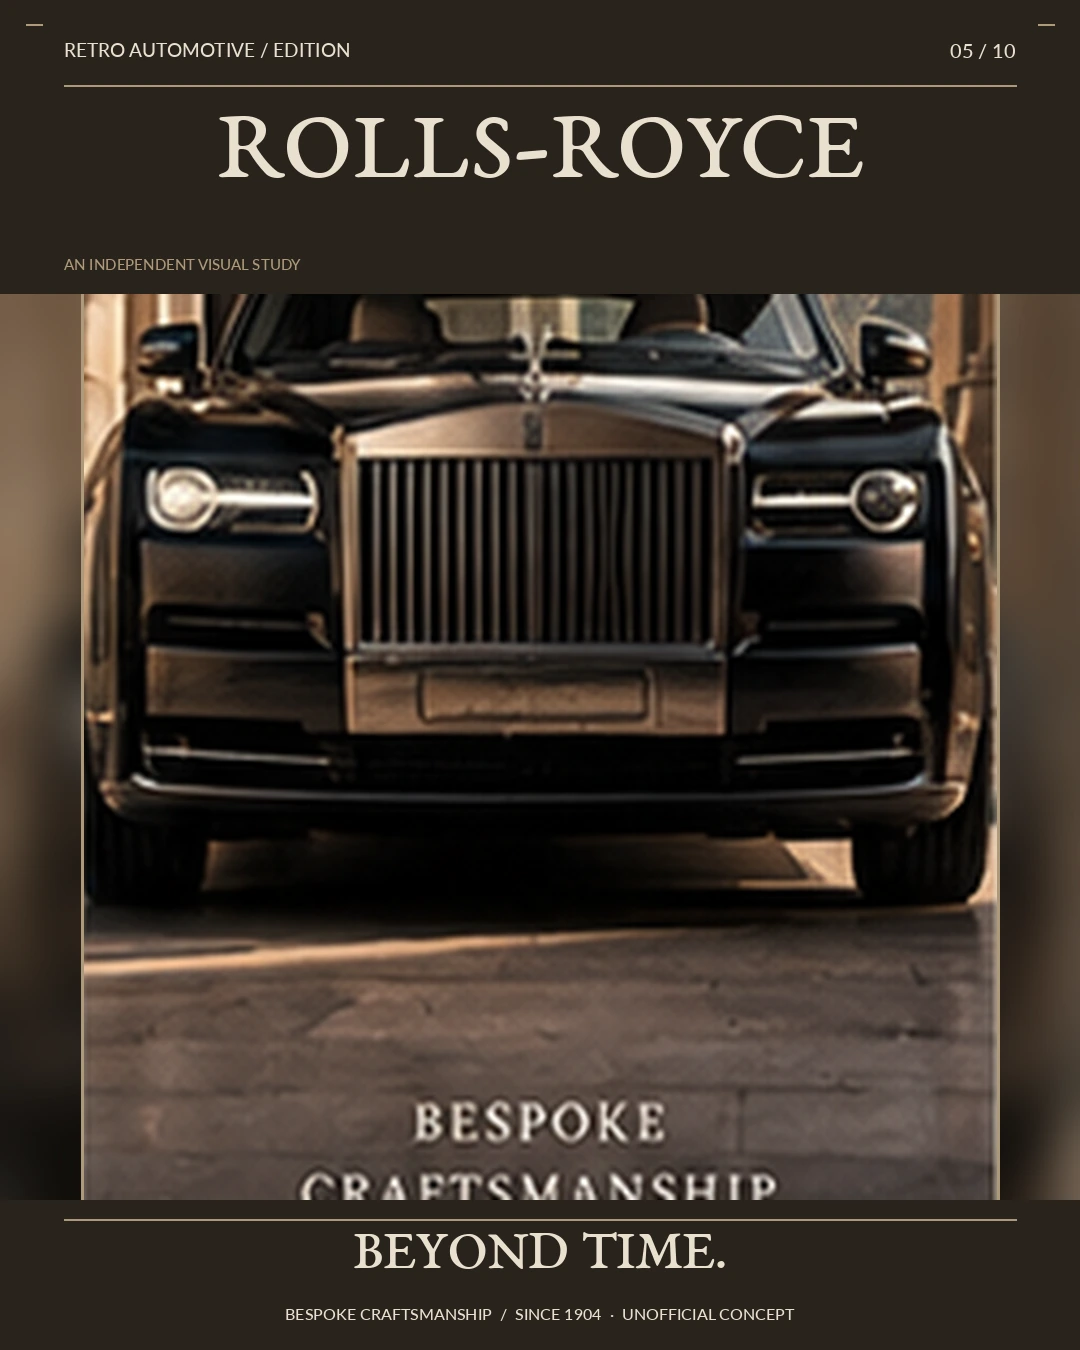
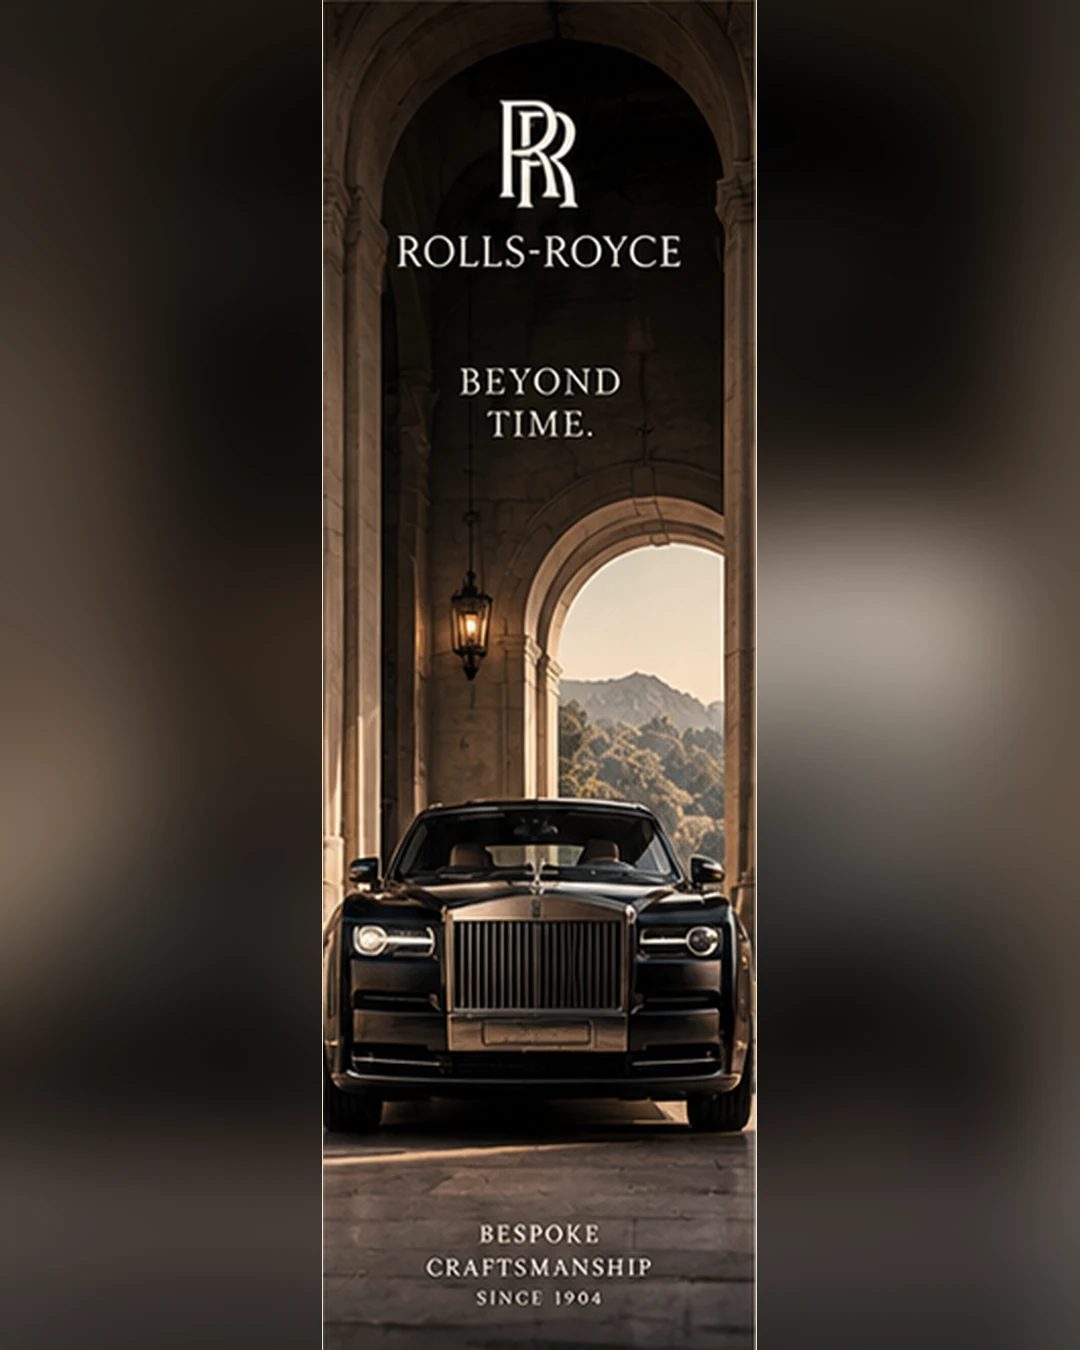
Restore exact original automotive poster artwork in 1080x1350 social frames

diff --git a/jewellery-social-gallery/index.html b/jewellery-social-gallery/index.html
@@ -282,7 +282,7 @@ a.work-tile:focus-visible{outline:3px solid #ac885c;outline-offset:3px}
   <div>
    <div class="eyebrow"><i></i>Automotive / Heritage Campaign Studies / 2026</div>
    <h1 class="collection-title">Ten icons.<br><em>Five directions.</em></h1>
-   <p class="collection-lead">10 poster retro/vintage được dựng lại từ chính ảnh tổng hợp bạn cung cấp, giữ các mẫu xe và bố cục lấy từ hình gốc. Từng poster được tái dàn trang theo khung Facebook/Instagram 1080 × 1350 px (4:5), không tạo lại xe bằng AI.</p>
+   <p class="collection-lead">10 poster retro/vintage được dựng lại từ chính ảnh tổng hợp bạn cung cấp, giữ các mẫu xe và bố cục lấy từ hình gốc. Từng poster giữ nguyên toàn bộ thiết kế gốc ở chính giữa; hai bên được mở rộng bằng nền mờ lấy từ ảnh đó để vừa khung Facebook/Instagram 1080 × 1350 px (4:5), không kéo giãn hình xe hoặc vẽ lại bằng AI.</p>
   </div>
   <aside class="collection-aside"><strong>Classics, reimagined.</strong>Minimalism · Art Deco · Editorial · Art Nouveau · 3D / CGI.<br><br>10 standalone posters / 1080 × 1350 px.</aside>
  </div>
@@ -299,7 +299,7 @@ a.work-tile:focus-visible{outline:3px solid #ac885c;outline-offset:3px}
   <button class="auto-filter-btn" type="button" data-auto-filter="3D / CGI" aria-pressed="false">3D / CGI <span>02</span></button>
  </div>
  <section id="auto-grid" class="grid auto-poster-grid" aria-label="10 retro and vintage automotive posters" aria-live="polite"></section>
- <div class="auto-gallery-note"><span>✳ &nbsp; INDEPENDENT VISUAL STUDIES</span><p>Bộ ảnh này được cắt và tái bố cục trực tiếp từ collage do người dùng cung cấp, không sinh lại hình xe bằng AI. Vì ảnh đầu vào chỉ có độ rộng khoảng 200 px mỗi mẫu nên hình xe có thể mềm khi phóng to. Các thiết kế không phải quảng cáo chính thức của thương hiệu.</p></div>
+ <div class="auto-gallery-note"><span>✳ &nbsp; INDEPENDENT VISUAL STUDIES</span><p>10 poster giữ nguyên thiết kế trong collage bạn cung cấp. Toàn bộ chữ, logo và ảnh xe nằm nguyên trong cột poster ở giữa; hai bên mở rộng bằng nền mờ, không cắt mất nội dung, không tạo lại xe bằng AI. Vì ảnh đầu vào chỉ có độ rộng khoảng 200 px mỗi mẫu nên hình xe có thể mềm khi phóng to. Các thiết kế không phải quảng cáo chính thức của thương hiệu.</p></div>
 </section>
 <section id="panel-other-designs" class="collection-panel" role="tabpanel" aria-labelledby="tab-other-designs" tabindex="0" hidden>
 <div class="collection-intro">
@@ -552,16 +552,16 @@ var svg=design(b),blob=new Blob([svg],{type:'image/svg+xml;charset=utf-8'}),u=UR
 (function(){
   'use strict';
   var posters=[
-    {id:'ford',brand:'Ford Mustang',model:'Fastback / 1967',style:'Editorial',title:'Born to Roam',image:'assets/automotive/01-ford-retro-poster.webp',description:'American muscle meets fashion-editorial photography. Low-angle hero car, dark slate, warm highway atmosphere and oversized serif typography.'},
-    {id:'peugeot',brand:'Peugeot',model:'French vintage sedan',style:'Art Nouveau',title:'The Beauty of Slow Days',image:'assets/automotive/02-peugeot-retro-poster.webp',description:'French motoring heritage interpreted with botanical line work, organic arches, warm ivory and a graceful serif typographic system.'},
-    {id:'volkswagen',brand:'Volkswagen',model:'Type 2 Samba Bus',style:'3D / CGI',title:'More Life. More Miles.',image:'assets/automotive/03-volkswagen-retro-poster.webp',description:'Playful retro-futurist 3D visual study with pastel mint, apricot, concentric forms and a vintage microbus as the hero.'},
-    {id:'jaguar',brand:'Jaguar',model:'E-Type / 1961',style:'Minimalism',title:'Grace in Motion',image:'assets/automotive/04-jaguar-retro-poster.webp',description:'British grand touring with minimalist negative space, ivory paper-like treatment, sophisticated tracking and the sculptural E-Type as centerpiece.'},
-    {id:'rolls-royce',brand:'Rolls-Royce',model:'Silver Cloud-era study',style:'Minimalism',title:'An Ageless Arrival',image:'assets/automotive/05-rolls-royce-retro-poster.webp',description:'Understated British formal luxury in stone, cream and charcoal, with expansive breathing space and an elegant hero silhouette.'},
-    {id:'harley-davidson',brand:'Harley-Davidson',model:'Classic cruiser heritage',style:'Editorial',title:'Freedom Has a Sound',image:'assets/automotive/06-harley-davidson-retro-poster.webp',description:'Cinematic sunset highway photography, warm copper tones, close-up mechanical detail and rebellious motorcycle culture.'},
-    {id:'porsche',brand:'Porsche',model:'Classic 911',style:'3D / CGI',title:'Timeless Velocity',image:'assets/automotive/07-porsche-retro-poster.webp',description:'Classic precision meets sculptural metallic rings, blue-gray CGI-informed staging and powerful automotive editorial geometry.'},
-    {id:'mercedes-benz',brand:'Mercedes-Benz',model:'300 SL Gullwing-era study',style:'Art Deco',title:'Sculpted in Silver',image:'assets/automotive/08-mercedes-benz-retro-poster.webp',description:'An Art Deco homage to a legendary classic coupe: geometric gold architecture, silver bodywork and a deep charcoal palette.'},
-    {id:'land-rover',brand:'Land Rover',model:'Classic Defender / Series',style:'Art Nouveau',title:'Beyond the Horizon',image:'assets/automotive/09-land-rover-retro-poster.webp',description:'Organic topographic curves and forest-inspired lettering frame a vintage off-road hero in a poetic olive-green exploration study.'},
-    {id:'ferrari',brand:'Ferrari',model:'Vintage race coupe',style:'Art Deco',title:'Passion Drives Us',image:'assets/automotive/10-ferrari-retro-poster.webp',description:'A vintage red racing coupe from the supplied automotive poster collage, re-composed as a 1080 × 1350 social design while preserving the original vehicle photo as the artwork source.'}
+    {id:'ford',brand:'Ford Mustang',model:'Fastback / 1967',style:'Editorial',title:'A Legend Never Ages',image:'assets/automotive/01-ford-retro-poster.webp?v=exact-4x5',description:'Original Ford Mustang poster: coastal sunset, blue sky, pony motif, classic car and caption remain unchanged.'},
+    {id:'peugeot',brand:'Peugeot',model:'French vintage sedan',style:'Art Nouveau',title:'L’esprit toujours plus loin',image:'assets/automotive/02-peugeot-retro-poster.webp?v=exact-4x5',description:'Original Peugeot vintage-sedan poster with European stone architecture, gold type and dark atmosphere preserved.'},
+    {id:'volkswagen',brand:'Volkswagen',model:'Type 2 Samba Bus',style:'3D / CGI',title:'Good People. Better Journeys.',image:'assets/automotive/03-volkswagen-retro-poster.webp?v=exact-4x5',description:'Original Volkswagen camper on sunlit sand beneath palms; all poster text and graphics preserved.'},
+    {id:'jaguar',brand:'Jaguar',model:'E-Type / 1961',style:'Minimalism',title:'Grace in Motion.',image:'assets/automotive/04-jaguar-retro-poster.webp?v=exact-4x5',description:'Original Jaguar sports coupe by a light stone arch, including its original headline and visual treatment.'},
+    {id:'rolls-royce',brand:'Rolls-Royce',model:'Silver Cloud-era study',style:'Minimalism',title:'Beyond Time.',image:'assets/automotive/05-rolls-royce-retro-poster.webp?v=exact-4x5',description:'Original Rolls-Royce vehicle beneath a grand stone arch, with its original brand styling and slogan.'},
+    {id:'harley-davidson',brand:'Harley-Davidson',model:'Classic cruiser heritage',style:'Editorial',title:'Freedom Lives Here.',image:'assets/automotive/06-harley-davidson-retro-poster.webp?v=exact-4x5',description:'Original Harley-Davidson cruiser amid orange sunset mountains, featuring its original crest and headline.'},
+    {id:'porsche',brand:'Porsche',model:'Classic 911',style:'3D / CGI',title:'Precision Creates Emotion.',image:'assets/automotive/07-porsche-retro-poster.webp?v=exact-4x5',description:'Original Porsche sports car by geometric architecture and red-and-white racing stripes.'},
+    {id:'mercedes-benz',brand:'Mercedes-Benz',model:'300 SL Gullwing-era study',style:'Art Deco',title:'Engineered for a Brighter Tomorrow.',image:'assets/automotive/08-mercedes-benz-retro-poster.webp?v=exact-4x5',description:'Original classic Mercedes-Benz gullwing coupe, architectural setting and typographic hierarchy.'},
+    {id:'land-rover',brand:'Land Rover',model:'Classic Defender / Series',style:'Art Nouveau',title:'Adventure Without Limits.',image:'assets/automotive/09-land-rover-retro-poster.webp?v=exact-4x5',description:'Original green classic Land Rover against an alpine landscape, preserving source typography.'},
+    {id:'ferrari',brand:'Ferrari',model:'Vintage race coupe',style:'Art Deco',title:'Passion Drives Us.',image:'assets/automotive/10-ferrari-retro-poster.webp?v=exact-4x5',description:'Original red Ferrari racing coupe in a graphic red architectural environment, with full artwork intact.'}
   ];
   var currentFilter='All',selected=null,lastOpener=null,available=posters.map(function(_,i){return i});
   var grid=document.getElementById('auto-grid'),filters=Array.prototype.slice.call(document.querySelectorAll('[data-auto-filter]'));

diff --git a/jewellery-social-gallery/README.md b/jewellery-social-gallery/README.md
@@ -20,7 +20,7 @@ Tabs use buttons with ARIA roles, keyboard arrow/Home/End support, URL hash deep
 
 ## Automotive Retro/Vintage Collection — 10 Posters, 5 Styles
 
-There are **10 retro automotive posters** at 1080 × 1350 px in the Automotive tab, made by extracting vehicle scenes from the collage provided by the user and re-laying them out to Facebook/Instagram 4:5 format. The source vehicle images are preserved as cropped material, not AI-regenerated; source collage resolution is limited (~200 px wide per vehicle poster). Website assets are compressed WebP for performance; the poster modal provides client-side export to 1080 × 1350 PNG or direct download of the source WebP file.
+There are **10 retro automotive posters** at 1080 × 1350 px in the Automotive tab, made by extracting the complete original narrow posters from the user-supplied collage, preserving all their existing text, brand motifs and vehicle imagery, and adding a blurred extension of the same image at the sides to achieve Facebook/Instagram 4:5. Each original poster stays intact in a centered vertical strip without being stretched, cropped or re-typeset; no vehicles were AI-regenerated. The source collage resolution is limited (~200 px wide per original poster). Website assets are compressed WebP for performance; the poster modal provides client-side export to 1080 × 1350 PNG or direct download of the source WebP file.
 
 | # | Brand | Model inspiration | Art direction | Image |
 | --- | --- | --- | --- | --- |
